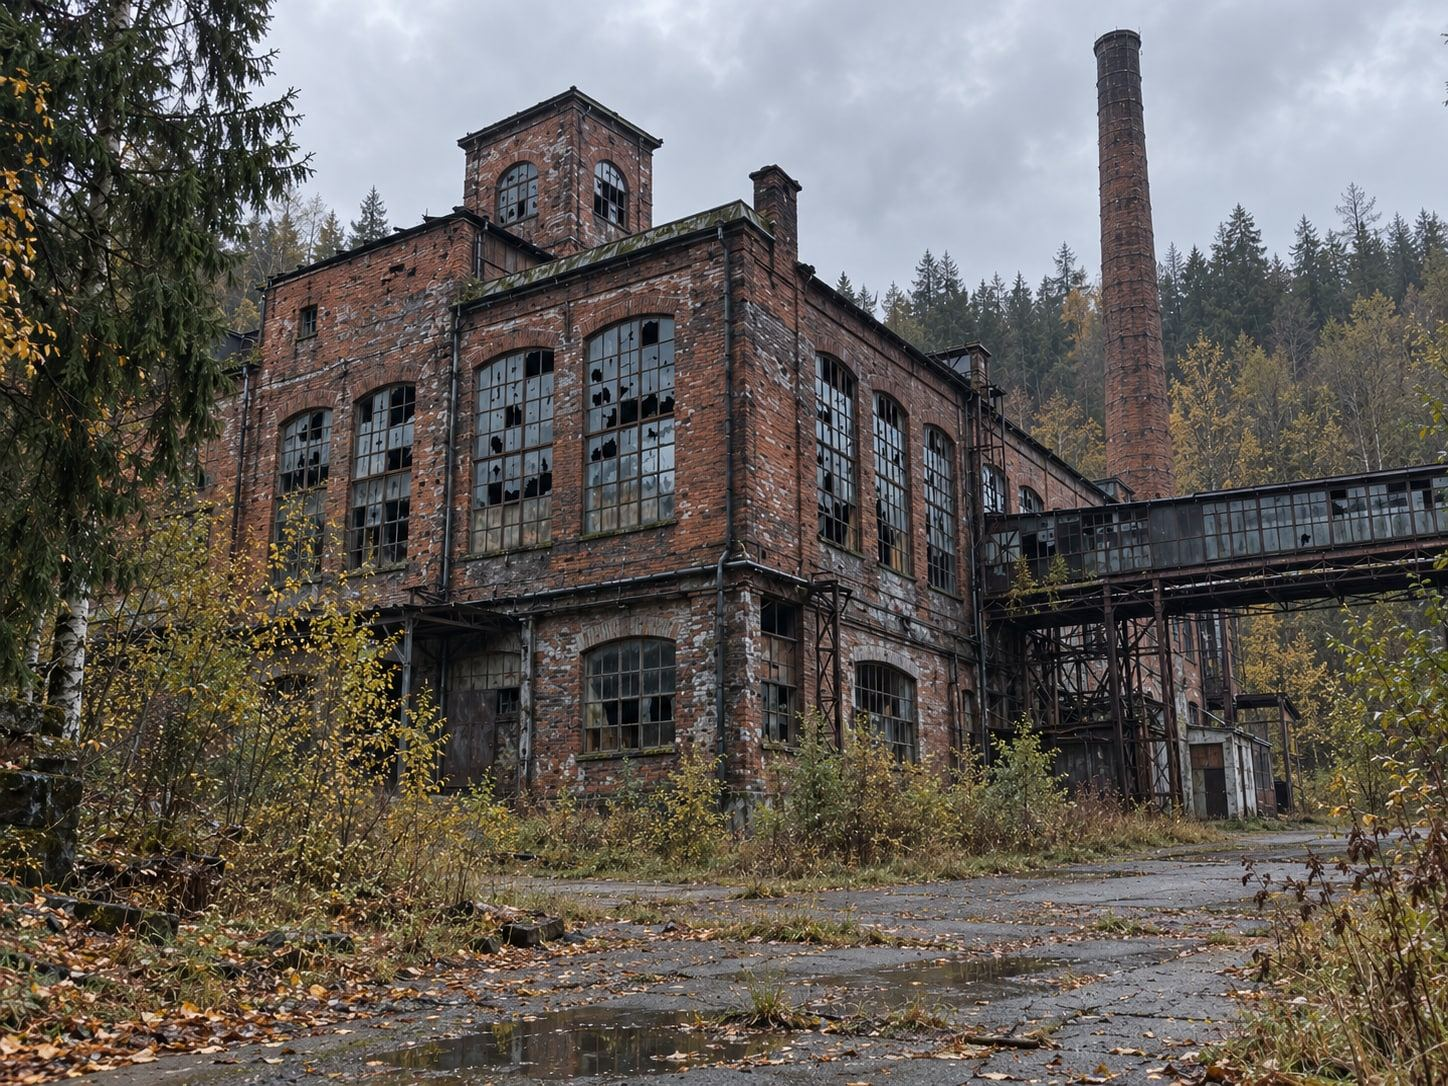
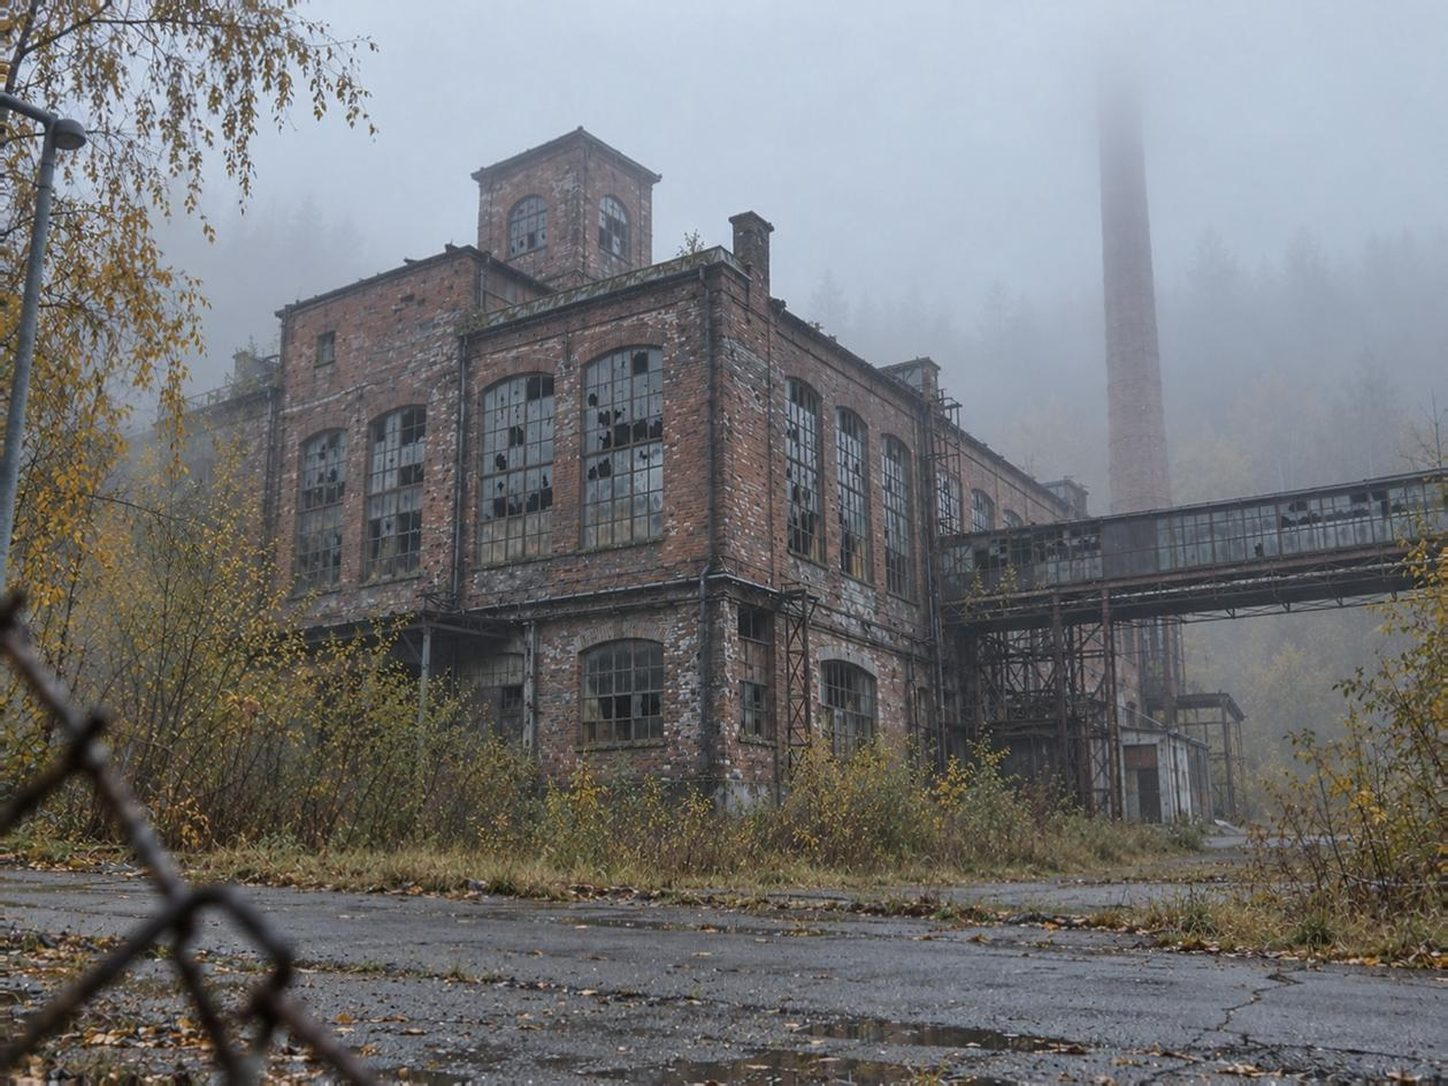
v119: zdjęcia zgodne z fabułą i jak z telefonu (Maja nad rzeką, huta we mgle, zrzut ze studniówki, kotka Ziuta, Ola z umową, Kuba przy kostce)

diff --git a/js/data/wallpapers.js b/js/data/wallpapers.js
@@ -4,7 +4,7 @@ DATA.wallpapers = [
   { id: 'forest', name: 'Mglisko o zmroku', src: 'assets/wall-mglisko.jpg', position: '50% 50%' },
   { id: 'graphite', name: 'Grafit', background: 'linear-gradient(145deg,#45505d,#14191f 70%)' },
   { id: 'maja_river', name: 'Nad wodą', src: 'assets/maja-river.jpg', position: '50% 50%', imported: true },
-  { id: 'maja_river_crop', name: 'Nad wodą · zbliżenie', src: 'assets/maja-river.jpg', position: '30% 60%', size: 'auto 135%', imported: true }
+  { id: 'maja_river_crop', name: 'Nad wodą · zbliżenie', src: 'assets/maja-river.jpg', position: '64% 35%', size: 'auto 135%', imported: true }
 ];
 Object.assign(DATA.evidence, {
   ev_wallpaper_backup: { title: 'Tapeta Mai · kopia z 14.10, 23:58', cat: 'digital', source: 'Nimbus · ustawienia ekranu',

diff --git a/js/story/kronika.js b/js/story/kronika.js
@@ -95,7 +95,7 @@ Engine.chapter('c0', { num: 0, kicker: 'Sprawa 4 · Prolog', title: 'Studniówka
       pic('maja2', 'maja', 'c_studniowka', 'zrobiłam zrzut. przypomina ci to coś?'),
       choose('maja2', [
         opt('Wygląda jak stara kronika z kablówki. Natan miał podobny kadr z mostu.', [
-          M('o. masz rację. ten sam żółty pasek u dołu, ta sama jakość'),
+          M('o. masz rację. ten sam żółty pasek u dołu, ta sama jakość', { wording: 'o. masz rację. ta sama jakość, ten sam szum z kasety. tylko tu nie ma paska w rogu' }),
           M('to „TV Dolina”. kablówka. puszczali to w każdą sobotę przed pogodą')
         ], { set: { c_linkTV: true } }),
         opt('To sala gimnastyczna w naszej szkole?', [

diff --git a/sw.js b/sw.js
@@ -1,5 +1,5 @@
 // Service worker: gra działa offline po pierwszym uruchomieniu.
-const VERSION = 'quiet-is-safer-v118';
+const VERSION = 'quiet-is-safer-v119';
 const FILES = [
   './', './index.html', './manifest.webmanifest', './icon.svg', './icon-192.png', './icon-512.png', './apple-touch-icon.png',
   './css/base.css', './css/apps.css', './css/web.css', './css/os.css', './css/messenger.css',

diff --git a/docs/PLAN-WDROZENIA-I-PRZEKAZANIE.md b/docs/PLAN-WDROZENIA-I-PRZEKAZANIE.md
@@ -993,3 +993,11 @@ Przejrzane pełne transkrypty wszystkich pięciu spraw (tools/transcript.browser
 - Zdjęcia (Codex image_gen + realism-post): `m_ola_lake` — wcześniej wygładzone, „AI-owe” selfie; teraz zwykłe selfie z przedniej kamery pod słońce (Ola z niekorzystnej strony, zgodnie z podpisem „wyszła jak ziemniak”), pion 4:5 pasuje do postu w Kadrze. `c_zenon_kamera` („Festyn, 2005”) — wcześniej współczesna kamera kinowa, rozmyta plama na szyldzie i angielskie „…ADE”, Zenon nie na scenie; teraz zdjęcie z kompaktu z 2005 (data w rogu, flesz w dzień), Zenon ~50 lat na scenie z kamerą, zgodnie z „stawał na scenie, bo stamtąd widać wszystkich”.
 - `m_mem_radio` („pies naczelnego… dział dźwięku po 22”, od Natana): wcześniej pies na radiu w pokoju babci z serwetkami — sprzeczne z redakcją; teraz zdjęcie z fleszem w nocnej redakcji (pies na radiu obok miksera i słuchawek).
 - Nowy test: tests/chat-apps.browser.cjs (320 i 390 px, brak przepełnień).
+
+### 2026-10-25 — v119: zdjęcia zgodne z tekstem i bardziej „z telefonu”
+- `maja-river` (tapeta/zdjęcie Mai od Kuby): zamiast pozowanego portretu z aparatem przy oku — Maja odwraca się w pół zdania, kadr krzywy, kciuk Kuby w rogu; zbliżenie na tapecie ustawione na twarz (64% 35%).
+- `factory-day-v1` (post Mai w Kadrze 03.10 „mgła 8 dni na 10”): wcześniej czyste HDR bez mgły — teraz ta sama huta (wieża, komin, przenośnik) w gęstej mgle, przez dziurę w siatce, płaskie światło telefonu.
+- `c_studniowka` (zrzut Mai z klipu „studniówka, 1999” i straszak s4_drzwi): wcześniej współczesne zdjęcie z balu, niezgodne z filmem — teraz ostatnia klatka `v_studniowka.mp4` (kamera zatrzymana na drzwiach, ktoś w nich stoi). Maja nie mówi już o „żółtym pasku u dołu” (klip go nie ma; u Natana był pasek GS Wideo w rogu) — przez `wording`.
+- `m_kamera_kotka` i `m_kot_wycinki`: ta sama kotka Ziuta i ta sama cerata w kuchni pani Weroniki (wcześniej dwa różne koty, wygładzone), zdjęcia z fleszem/dziennym światłem z taniego telefonu.
+- `g_ola_umowa` (selfie Oli z umową w świetlicy) i `g_kuba_kostka` (Kuba przy kostce u sąsiada): zamiast pozowanych, „AI-owych” kadrów — selfie z przedniej kamery i szybkie zdjęcie od Bartka, krzywy kadr, błoto, zwykłe światło.
+- Klip snap: nadal wstrzymany (Krea 402, brak środków).
